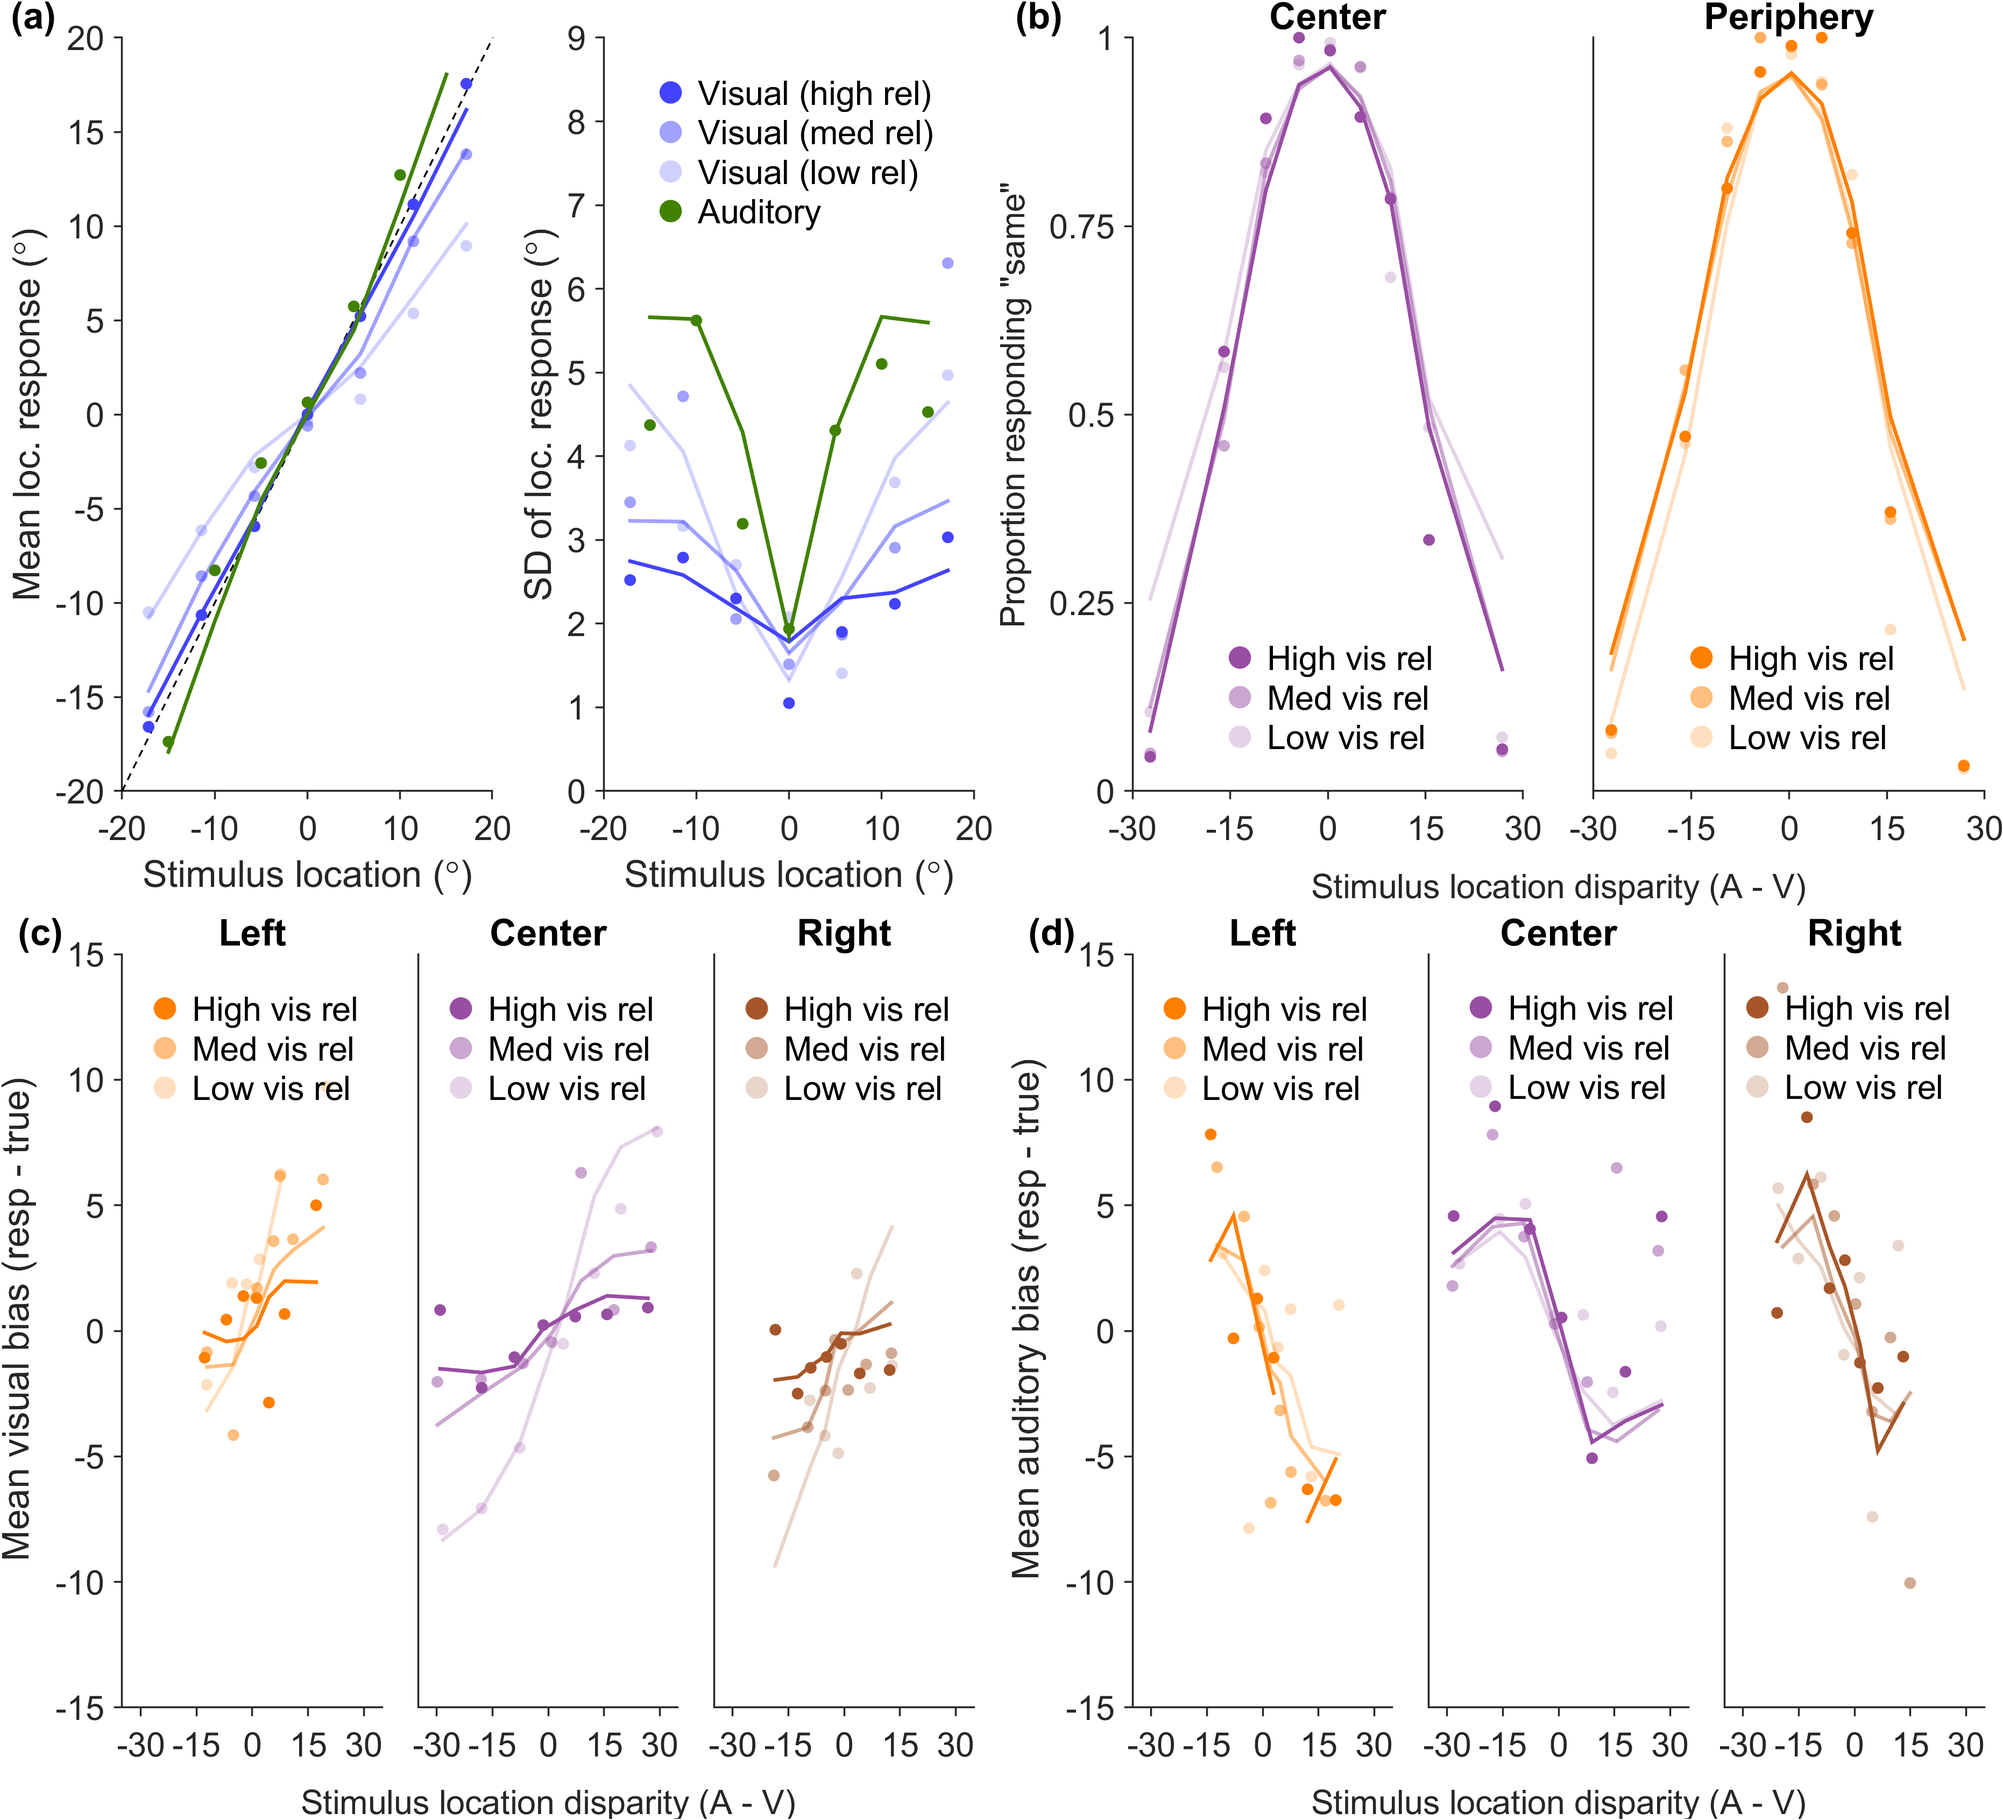
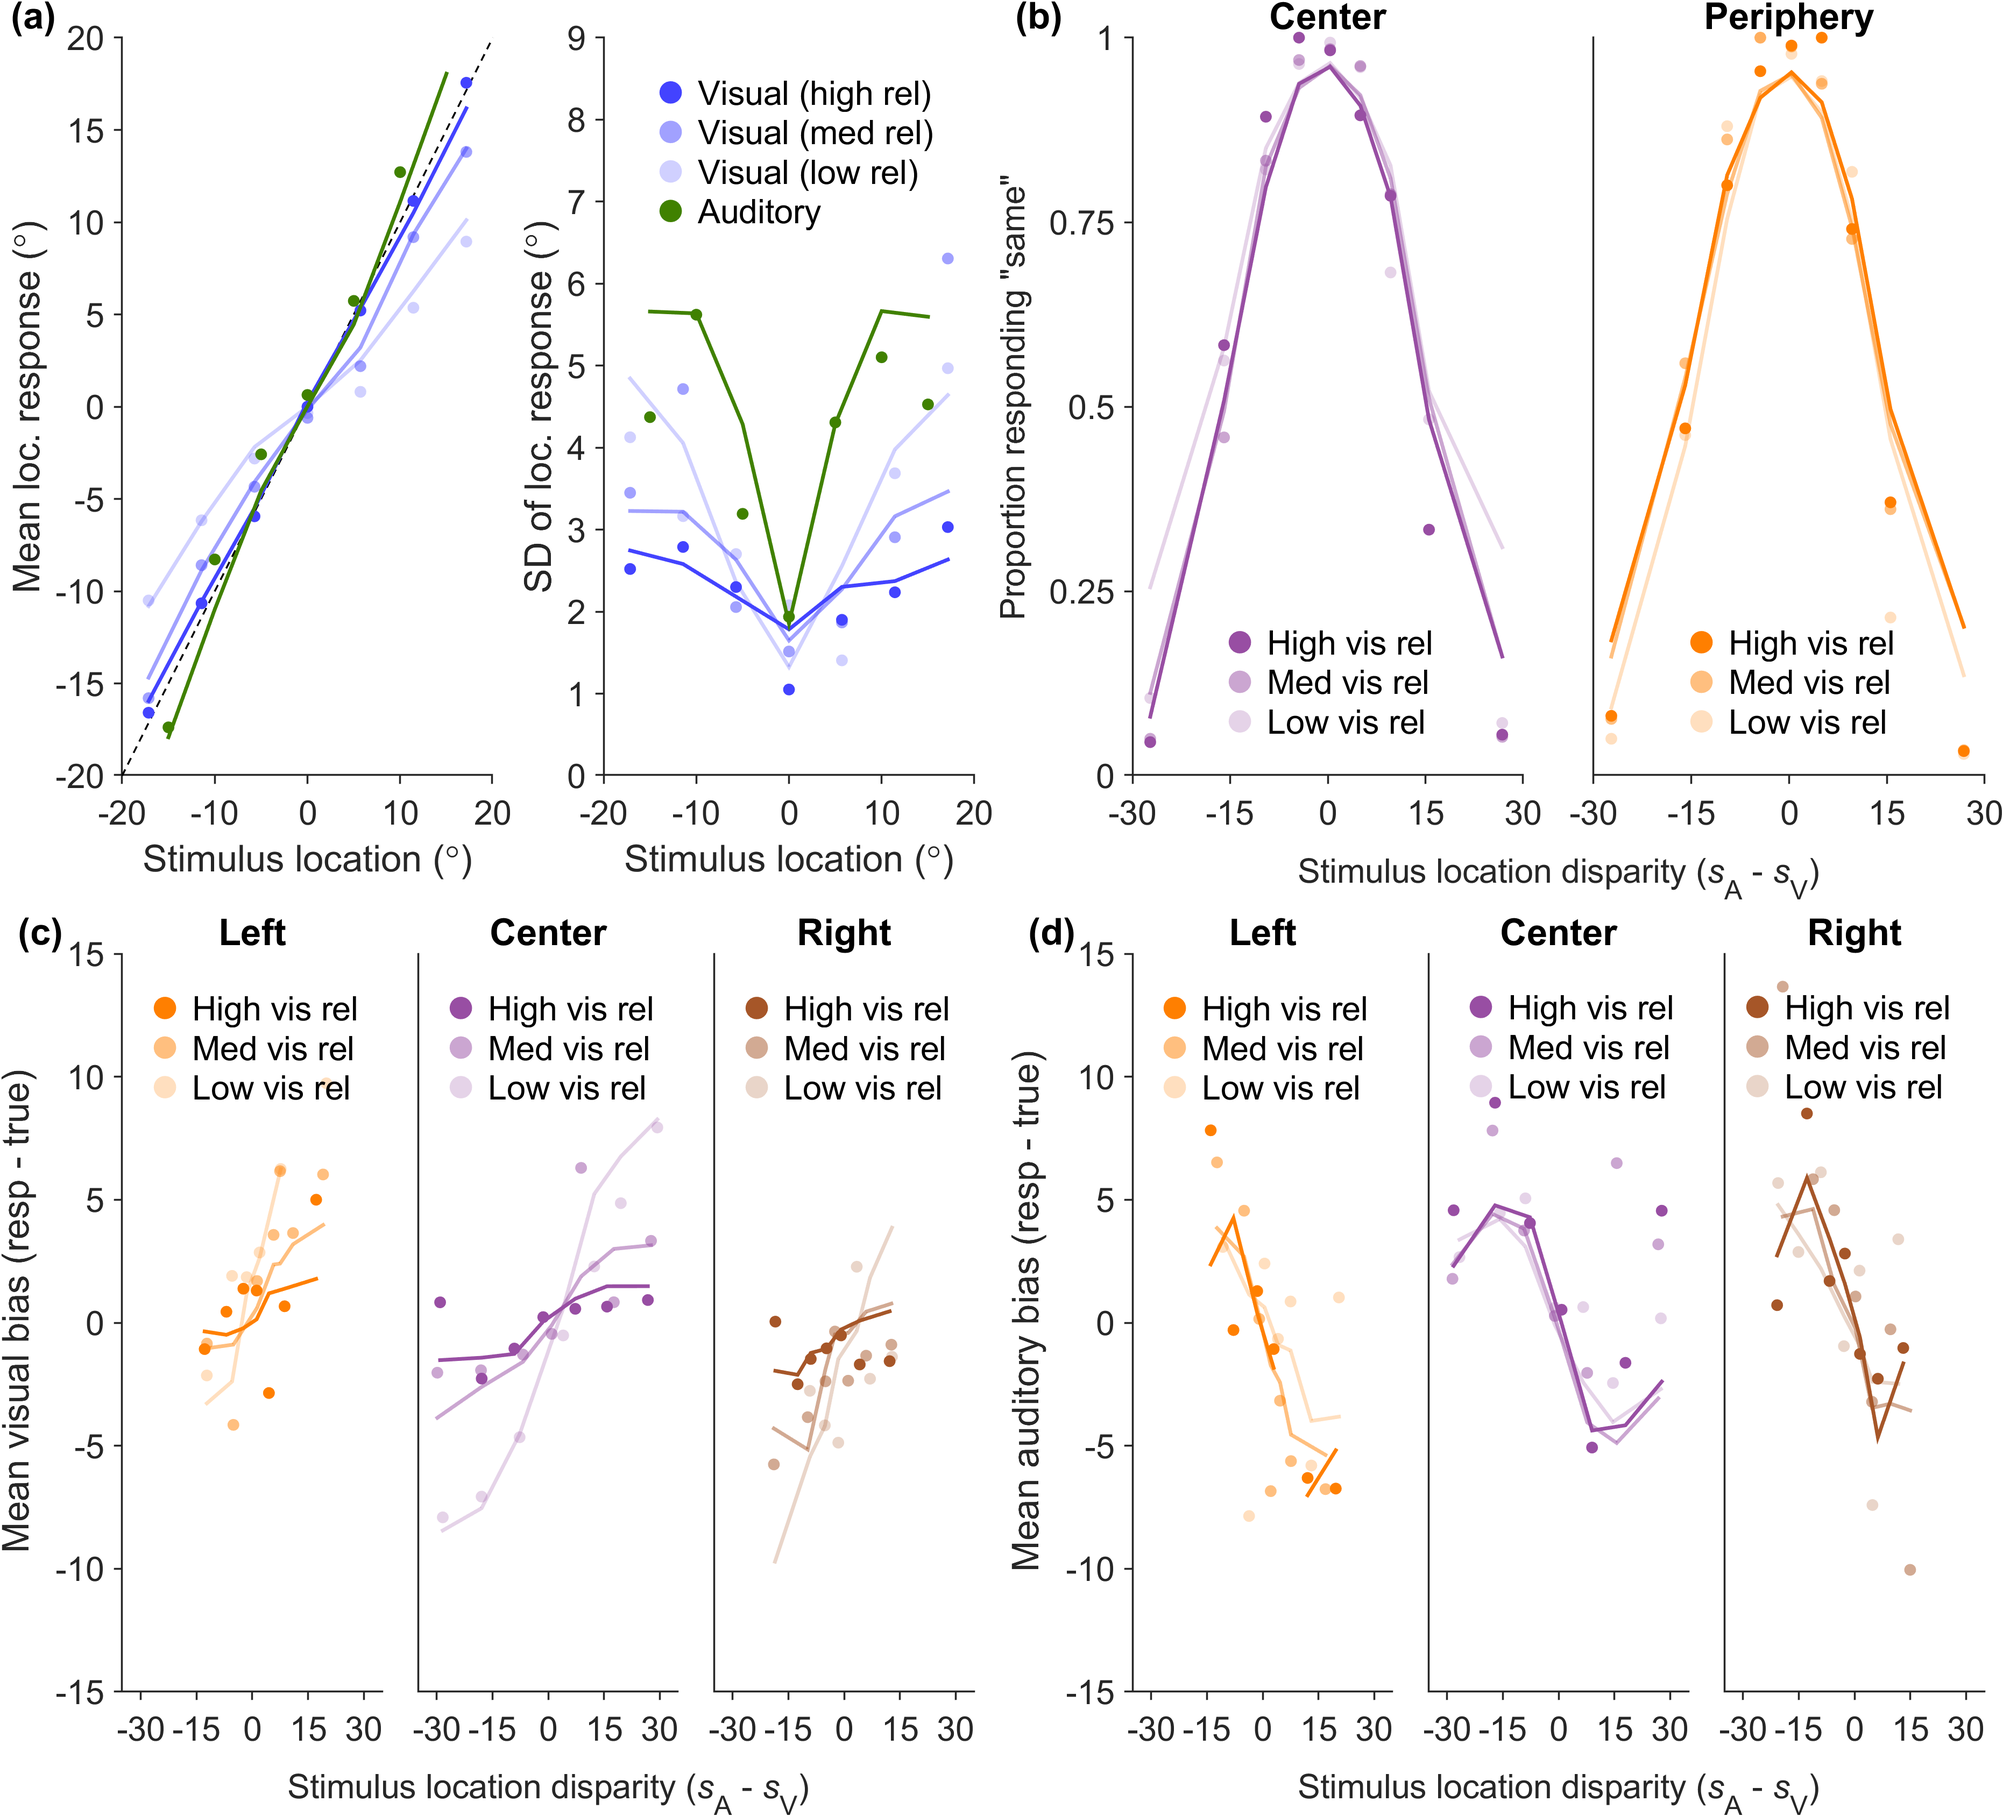
update x axis of exemplary individual plot

diff --git a/manuscript_allplots.m b/manuscript_allplots.m
@@ -1143,7 +1143,7 @@ function [] = allindvsubjplots_to_onesubjplot(save_name, subjidx, fitted_on_all_
         t3=tiledlayout(T,1,2, 'Padding','none','TileSpacing','compact');
         t3.Layout.Tile = 7;
         t3.Layout.TileSpan = [1 6];
-        xlabel(t3,"Stimulus location disparity (A - V)", 'FontSize',fontsize)
+        xlabel(t3,"Stimulus location disparity ({\its}_A - {\its}_V)", 'FontSize',fontsize)
         ylabel(t3,{"{\rm \fontsize{9} {Proportion responding "+ '"'+'same'+ '"'+"}}"}, 'FontSize',fontsize);
         
         BC_strat_names = ["Center", "Periphery"];
@@ -1187,7 +1187,7 @@ function [] = allindvsubjplots_to_onesubjplot(save_name, subjidx, fitted_on_all_
         t4=tiledlayout(T,1,3, 'Padding','none','TileSpacing','compact');
         t4.Layout.Tile = 13;
         t4.Layout.TileSpan = [1 6];
-        xlabel(t4, "Stimulus location disparity (A - V)", 'FontSize',fontsize)
+        xlabel(t4, "Stimulus location disparity ({\its}_A - {\its}_V)", 'FontSize',fontsize)
         ylabel(t4,"{\rm \fontsize{10} {Mean visual bias (resp - true)}}");
         for strats=1:3
             tt = nexttile(t4);
@@ -1232,7 +1232,7 @@ function [] = allindvsubjplots_to_onesubjplot(save_name, subjidx, fitted_on_all_
         t5=tiledlayout(T,1,3, 'Padding','none','TileSpacing','compact');
         t5.Layout.Tile = 19;
         t5.Layout.TileSpan = [1 6];
-        xlabel(t5, "Stimulus location disparity (A - V)", 'FontSize',fontsize)
+        xlabel(t5, "Stimulus location disparity ({\its}_A - {\its}_V)", 'FontSize',fontsize)
         ylabel(t5,"{\rm \fontsize{10} {Mean auditory bias (resp - true)}}");
         for strats=1:3
             tt = nexttile(t5);

diff --git a/analysis/manuscript_bimodalavfits_visualization_resc.m b/analysis/manuscript_bimodalavfits_visualization_resc.m
@@ -36,7 +36,7 @@ function manuscript_bimodalavfits_visualization_resc(BAV_data, fitted_params_PM,
     for i=1:num_subjects
         subj_idx{i} = "subj "+num2str(i);
         BAV_data_alltrials = [BAV_data_alltrials; BAV_data{i}];
-        s_diff_alltrials = [s_diff_alltrials; BAV_data{i}(:,2)- BAV_data{i}(:,3)];
+        s_diff_alltrials = [s_diff_alltrials; BAV_data{i}(:,2){\its}_A- BAV_data{i}(:,3)];
         s_sum_alltrials = [s_sum_alltrials; BAV_data{i}(:,2)+ BAV_data{i}(:,3)];
     end
 %     binedges = quantile(s_diff_alltrials(abs(s_diff_alltrials)>0.01), linspace(0,1,7));
